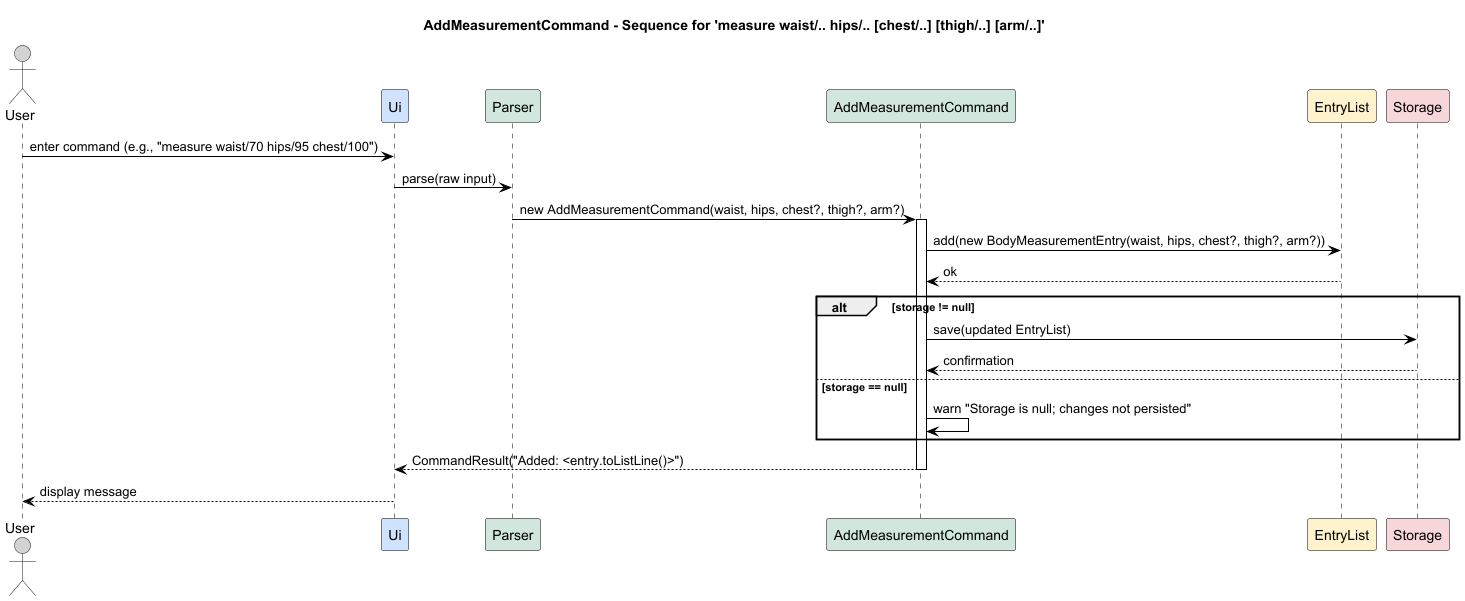
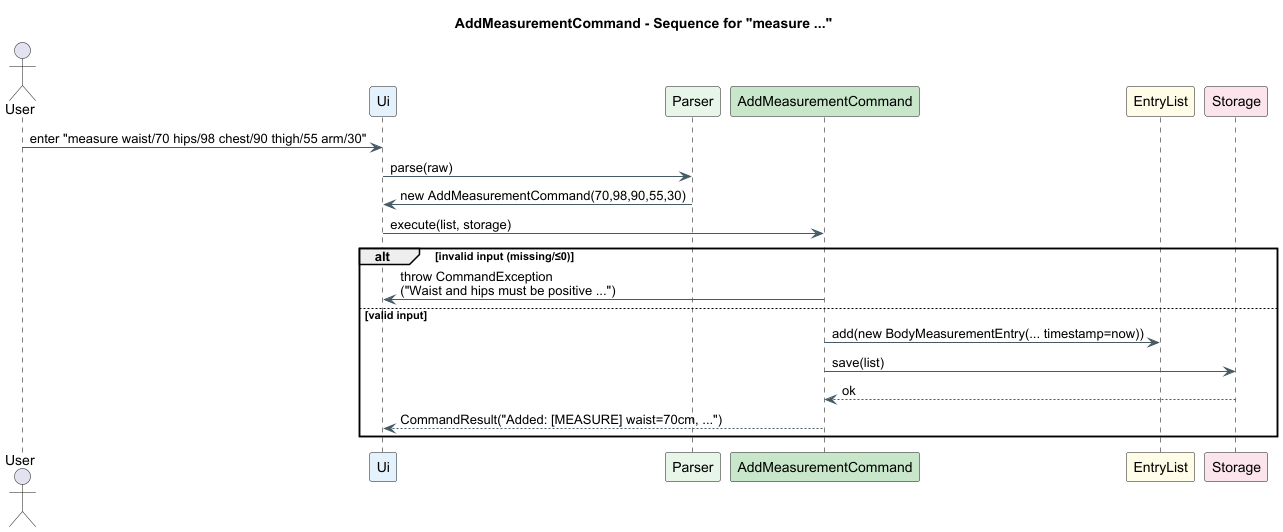
docs: update UG and DG with Delete and Add Measurement features

diff --git a/docs/UserGuide.md b/docs/UserGuide.md
@@ -27,9 +27,7 @@ Mama is lightweight, works entirely **offline**, and runs on any system with Jav
 
 ```java -jar mama.jar```
 
-5. You should see a welcome message and command prompt:
-
-> Welcome to Mama! What would you like to do today?
+5. You should see a welcome message and command prompt.
 
 6. Type a command and press **Enter** to start logging your activities.
 
@@ -50,6 +48,7 @@ You can also filter entries by their type.
 **Format**
 
 > list
+>
 > list /t TYPE
 
 
@@ -81,14 +80,9 @@ Removes an entry by its index as shown in the `list` command.
 ```delete 2```
 ```delete 5```
 
-**Expected Output**
-> Deleted entry: MEAL | breakfast | 500 | 2025-10-20
+**Notes**
 
-
-**Error Cases**
-
-- If the index is invalid or out of range, Mama will display  
-  `Invalid index: Please provide a valid entry number.`
+- Use the `list` command to find the correct index first.
 
 ---
 
@@ -107,7 +101,6 @@ Adds a meal entry with its calorie value.
 **Notes**
 
 - `CALORIES` must be a positive integer.
-- Meals are stored with the current date by default.
 
 ---
 
@@ -126,7 +119,7 @@ Adds a workout entry with its duration (in minutes).
 **Notes**
 
 - `DURATION` must be a positive integer.
-- *Coming soon:* view a summary of weekly workout durations.
+- Each workout is timestamped automatically.
 
 ---
 
@@ -136,6 +129,7 @@ Sets or views your **weekly workout goal**.
 
 **Formats**
 > workout goal MINUTES → sets a new goal
+>
 > workout goal → views current goal
 
 
@@ -146,7 +140,6 @@ Sets or views your **weekly workout goal**.
 **Notes**
 
 - The goal represents total minutes of workouts per week.
-- *Coming soon:* automatic progress bar and goal reminders.
 
 ---
 
@@ -165,6 +158,7 @@ Records a milk-pumping session in millilitres (ml).
 **Notes**
 
 - `VOLUME` must be a non-negative integer.
+- Each entry records the date and time automatically.
 
 ---
 
@@ -182,9 +176,7 @@ Adds a body-weight entry in kilograms.
 
 **Notes**
 
-- Only whole numbers are supported.  
-  *Coming soon:* support for decimal values.
-- Use `weight ?` (if supported in your version) to preview previous records.
+- The value must be a whole number.
 
 ---
 
@@ -214,6 +206,7 @@ Sets or displays your daily calorie goal.
 
 **Formats**
 > goal CALORIES → sets a new goal
+>
 > goal → views current goal
 
 
@@ -224,7 +217,6 @@ Sets or displays your daily calorie goal.
 **Notes**
 
 - Calories are summed from logged meals.
-- *Coming soon:* automatic goal tracking and progress report.
 
 ---
 
@@ -239,9 +231,9 @@ Ends the session and saves all data automatically.
 **Example**
 ```bye```
 
-**Expected Output**
-> Bye. Hope to see you again soon!
+**Notes**
 
+- Your data is saved automatically before exiting, so no need to save manually.
 
 ---
 
@@ -251,11 +243,13 @@ Mama automatically creates and updates a text file named `mama.txt` in the same 
 Each entry is stored on a separate line, using the `|` character as a separator.
 
 **Example Content**
-> MEAL|breakfast|500|2025-10-20
-> WORKOUT|yoga|30|2025-10-21
-> MILK|150|2025-10-21
-> MEASURE|weight|70|2025-10-26
-
+> MEAL|breakfast|500
+>
+> WORKOUT|yoga|45|28/10/25 02:33
+>
+> MILK|120ml|28/10/25 02:32
+>
+> MEASURE|70|98|90|55|30|28/10/25 02:53
 
 **Notes**
 
@@ -266,17 +260,11 @@ Each entry is stored on a separate line, using the `|` character as a separator.
 
 ## FAQ
 
-**Q:** Can I log decimals for weight or milk volume?  
-**A:** Not yet. Only whole numbers are supported. *(Coming soon)*
-
 **Q:** How do I filter only specific entries?  
 **A:** Use `list /t TYPE`. Example: `list /t meal`.
 
 **Q:** Why do I get an invalid index error?  
 **A:** The index number must exist in the list shown by `list`.
-
-**Q:** Can I undo a deletion?  
-**A:** Not in this version. *(Coming soon: Undo/Redo feature.)*
 
 **Q:** Does Mama require internet access?  
 **A:** No. Everything is stored locally for privacy.
@@ -297,25 +285,4 @@ Each entry is stored on a separate line, using the `|` character as a separator.
 | **Add Measurement** | `measure waist/WAIST hips/HIPS [chest/CHEST] [thigh/THIGH] [arm/ARM]` | `measure waist/78 hips/92` |
 | **Calorie Goal**    | `goal [CALORIES]`                                                     | `goal 1800`                |
 | **Exit**            | `bye`                                                                 | `bye`                      |
-
----
-
-## Coming Soon
-
-- Undo/Redo functionality
-- Multi-index deletion (e.g., `delete 2 3 4`)
-- Graphical summaries (weekly progress, BMI charts)
-- Integration with wearable devices
-- Decimal support for weight and milk volume
-
----
-
-## Notes on PDF Conversion
-
-When finalising your submission:
-
-- Save this page as **PDF from the GitHub Pages view**, following the module’s guide exactly.
-- Ensure all **hyperlinks work** in the PDF.
-- Keep image/screenshot resolution reasonable — final PDF must be **≤ 15 MB**.
-- Avoid expandable panels or GIFs as they are not PDF-friendly.
 

diff --git a/docs/DeveloperGuide.md b/docs/DeveloperGuide.md
@@ -76,10 +76,10 @@ Model. The Model updates state and Logic instructs Storage to persist data. UI r
 
 #### Example File Content
 
-> MEAL\|breakfast\|500\|2025-10-20  
-> WORKOUT\|yoga\|30min\|2025-10-21  
-> MILK\|morning\|150\|2025-10-21  
-> MEASURE\|weight\|70\|2025-10-26
+> MEAL|breakfast|500
+> WORKOUT|yoga|45|28/10/25 02:33 
+> MILK|120ml|28/10/25 02:32
+> MEASURE|70|98|90|55|30|28/10/25 02:53
 
 | Field | Description                                       |
 |-------|---------------------------------------------------|
@@ -241,18 +241,22 @@ This implementation ensures data safety and provides clear user feedback for bot
 
 #### Overview
 
-`AddMeasurementCommand` logs **waist** and **hips** (required) with optional **chest**, **thigh**, **arm** (all in
-cm).  
-It validates values, appends a `BodyMeasurementEntry`, and persists via `Storage#save(list)`.
+The `AddMeasurementCommand` logs **waist** and **hips** (required) with optional **chest**, **thigh**, **arm** — all in **cm**.  
+On success, it creates a **timestamped** `BodyMeasurementEntry` (via `TimestampedEntry`) and persists the updated list using `Storage#save(list)`.  
+**All new entries include a timestamp** formatted with `DateTimeUtil` as `dd/MM/yy HH:mm`.
 
 #### Implementation Details
 
-**Step 1.** User enters e.g.,
+**Step 1 — User issues a command**  
+The user enters, for example:
 ```measure waist/70 hips/98 chest/90 thigh/55 arm/30```
 
 > ![Measure_Initial](images/AddMeasurement_Initial.png)
 
-**Step 2.** `Parser` constructs  
+The `Ui` captures the raw input.
+
+**Step 2 — Parse into a command**  
+`Parser` extracts integer values and constructs:
 `AddMeasurementCommand(waist=70, hips=98, chest=90, thigh=55, arm=30)`.
 > ![Measure_Parsing](images/AddMeasurement_Parsing.png)
 
@@ -268,7 +272,10 @@ It validates values, appends a `BodyMeasurementEntry`, and persists via `Storage
 **Step 4.** Persist: `Storage#save(list)`.
 > ![Measure_Persist](images/AddMeasurement_Persist.png)
 
-**Step 5.** `Ui` prints `Added: [Measure] waist=70, hips=98, chest=90, thigh=55, arm=30`.
+**Step 5.** `Ui` prints 
+```Added: [MEASURE] waist=70cm, hips=98cm, chest=90cm, thigh=55cm, arm=30cm (28/10/25 02:53)```.
+
+> **AddMeasurement Sequence Diagram**
 > ![AddMeasurement_Sequence](images/AddMeasurement_SequenceDiagram.png)
 
 #### Design Considerations
@@ -313,6 +320,7 @@ If valid, a new `MealEntry` is created and appended to `EntryList`.
 > ![Meal_Persist](images/AddMeal_Persist.png)
 
 **Step 5.** `Ui` prints the result (e.g., `Added: [Meal] breakfast (500 kcal)`).
+
 > ![AddMeal_Sequence](images/AddMeal_SequenceDiagram.png)
 
 #### Design Considerations
